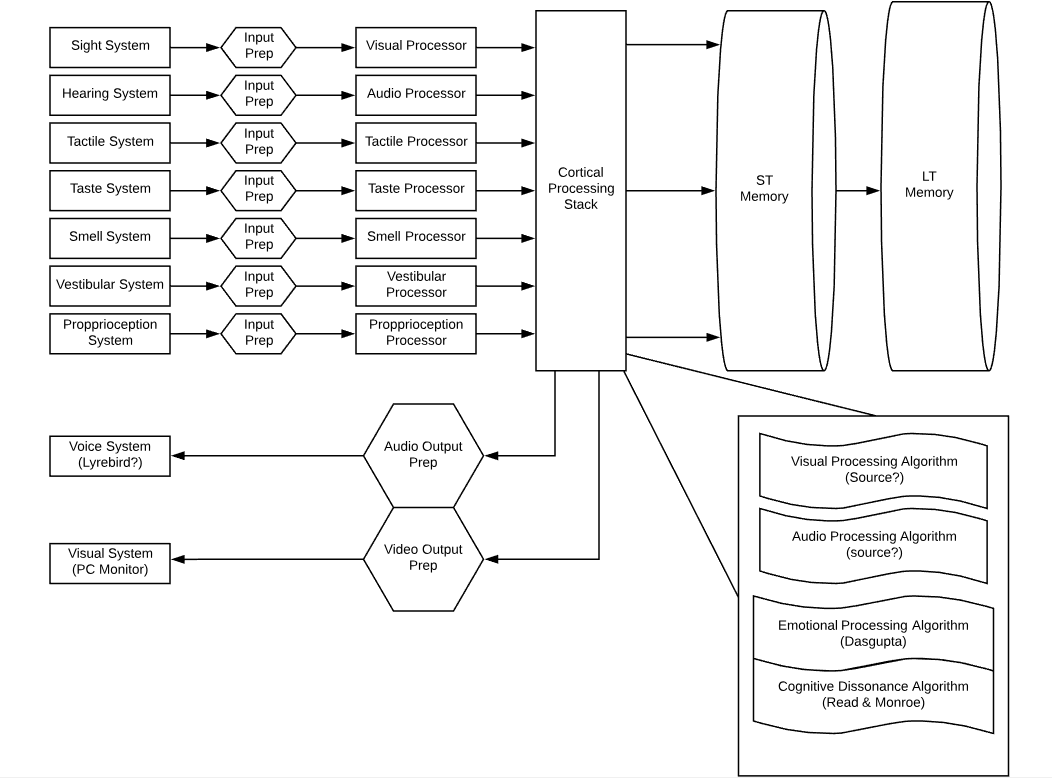
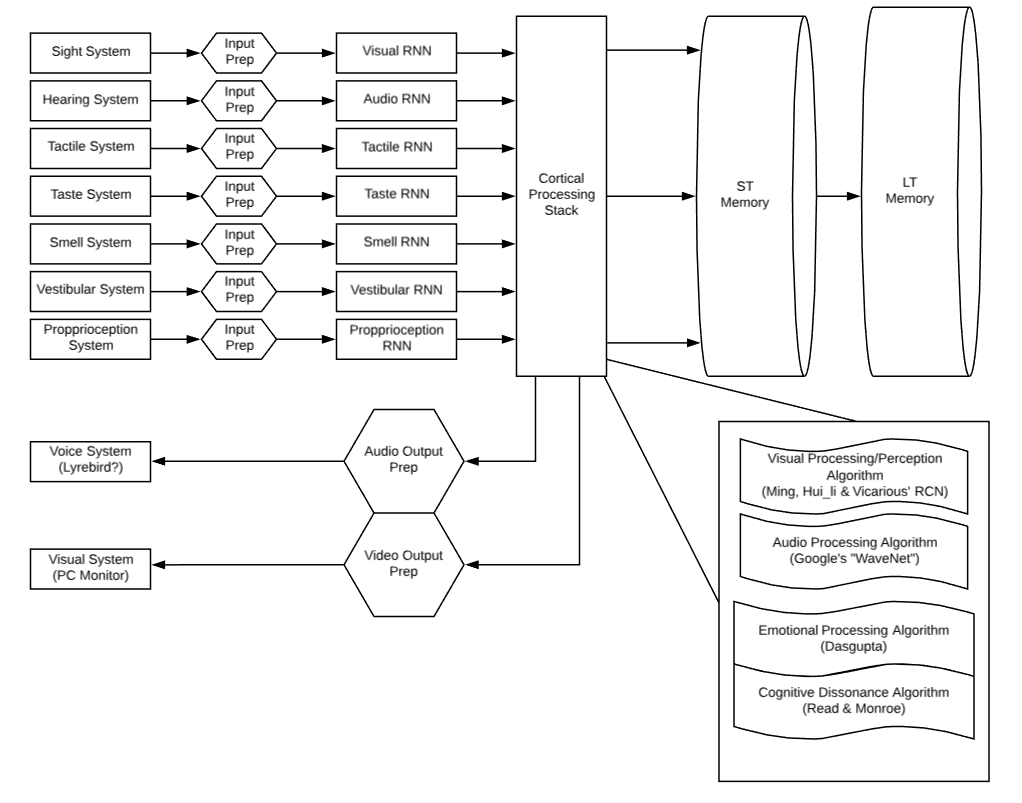
Updated Cusp post and AI Diagram

diff --git a/js/jqBootstrapValidation.min.js b/js/jqBootstrapValidation.min.js
@@ -1,7 +1,6 @@
 /*!
- * Start Bootstrap - Clean Blog v5.0.1 (https://startbootstrap.com/template-overviews/marios-blog)
- * Copyright 2013-2018 Start Bootstrap
- * Licensed under MIT (https://github.com/BlackrockDigital/startbootstrap-marios-blog/blob/master/LICENSE)
+ * Mario's Blog - Clean Blog v5.0.1 (https://startbootstrap.com/template-overviews/marios-blog)
+ * Copyright 2018-2018 Start Bootstrap
  */
 
 !function(m){var u=[],t={options:{prependExistingHelpBlock:!1,sniffHtml:!0,preventSubmit:!0,submitError:!1,submitSuccess:!1,semanticallyStrict:!1,autoAdd:{helpBlocks:!0},filter:function(){return!0}},methods:{init:function(a){var v=m.extend(!0,{},t);v.options=m.extend(!0,v.options,a);var e=m.unique(this.map(function(){return m(this).parents("form")[0]}).toArray());return m(e).bind("submit",function(a){var e=m(this),i=0,t=e.find("input,textarea,select").not("[type=submit],[type=image]").filter(v.options.filter);t.trigger("submit.validation").trigger("validationLostFocus.validation"),t.each(function(a,e){var t=m(e).parents(".form-group").first();t.hasClass("warning")&&(t.removeClass("warning").addClass("error"),i++)}),t.trigger("validationLostFocus.validation"),i?(v.options.preventSubmit&&a.preventDefault(),e.addClass("error"),m.isFunction(v.options.submitError)&&v.options.submitError(e,a,t.jqBootstrapValidation("collectErrors",!0))):(e.removeClass("error"),m.isFunction(v.options.submitSuccess)&&v.options.submitSuccess(e,a))}),this.each(function(){var l=m(this),t=l.parents(".form-group").first(),i=t.find(".help-block").first(),r=l.parents("form").first(),n=[];if(!i.length&&v.options.autoAdd&&v.options.autoAdd.helpBlocks&&(i=m('<div class="help-block" />'),t.find(".controls").append(i),u.push(i[0])),v.options.sniffHtml){var a="";if(void 0!==l.attr("pattern")&&(a="Not in the expected format\x3c!-- data-validation-pattern-message to override --\x3e",l.data("validationPatternMessage")&&(a=l.data("validationPatternMessage")),l.data("validationPatternMessage",a),l.data("validationPatternRegex",l.attr("pattern"))),void 0!==l.attr("max")||void 0!==l.attr("aria-valuemax")){var e=void 0!==l.attr("max")?l.attr("max"):l.attr("aria-valuemax");a="Too high: Maximum of '"+e+"'\x3c!-- data-validation-max-message to override --\x3e",l.data("validationMaxMessage")&&(a=l.data("validationMaxMessage")),l.data("validationMaxMessage",a),l.data("validationMaxMax",e)}if(void 0!==l.attr("min")||void 0!==l.attr("aria-valuemin")){var o=void 0!==l.attr("min")?l.attr("min"):l.attr("aria-valuemin");a="Too low: Minimum of '"+o+"'\x3c!-- data-validation-min-message to override --\x3e",l.data("validationMinMessage")&&(a=l.data("validationMinMessage")),l.data("validationMinMessage",a),l.data("validationMinMin",o)}void 0!==l.attr("maxlength")&&(a="Too long: Maximum of '"+l.attr("maxlength")+"' characters\x3c!-- data-validation-maxlength-message to override --\x3e",l.data("validationMaxlengthMessage")&&(a=l.data("validationMaxlengthMessage")),l.data("validationMaxlengthMessage",a),l.data("validationMaxlengthMaxlength",l.attr("maxlength"))),void 0!==l.attr("minlength")&&(a="Too short: Minimum of '"+l.attr("minlength")+"' characters\x3c!-- data-validation-minlength-message to override --\x3e",l.data("validationMinlengthMessage")&&(a=l.data("validationMinlengthMessage")),l.data("validationMinlengthMessage",a),l.data("validationMinlengthMinlength",l.attr("minlength"))),void 0===l.attr("required")&&void 0===l.attr("aria-required")||(a=v.builtInValidators.required.message,l.data("validationRequiredMessage")&&(a=l.data("validationRequiredMessage")),l.data("validationRequiredMessage",a)),void 0!==l.attr("type")&&"number"===l.attr("type").toLowerCase()&&(a=v.builtInValidators.number.message,l.data("validationNumberMessage")&&(a=l.data("validationNumberMessage")),l.data("validationNumberMessage",a)),void 0!==l.attr("type")&&"email"===l.attr("type").toLowerCase()&&(a="Not a valid email address\x3c!-- data-validator-validemail-message to override --\x3e",l.data("validationValidemailMessage")?a=l.data("validationValidemailMessage"):l.data("validationEmailMessage")&&(a=l.data("validationEmailMessage")),l.data("validationValidemailMessage",a)),void 0!==l.attr("minchecked")&&(a="Not enough options checked; Minimum of '"+l.attr("minchecked")+"' required\x3c!-- data-validation-minchecked-message to override --\x3e",l.data("validationMincheckedMessage")&&(a=l.data("validationMincheckedMessage")),l.data("validationMincheckedMessage",a),l.data("validationMincheckedMinchecked",l.attr("minchecked"))),void 0!==l.attr("maxchecked")&&(a="Too many options checked; Maximum of '"+l.attr("maxchecked")+"' required\x3c!-- data-validation-maxchecked-message to override --\x3e",l.data("validationMaxcheckedMessage")&&(a=l.data("validationMaxcheckedMessage")),l.data("validationMaxcheckedMessage",a),l.data("validationMaxcheckedMaxchecked",l.attr("maxchecked")))}void 0!==l.data("validation")&&(n=l.data("validation").split(",")),m.each(l.data(),function(a,e){var t=a.replace(/([A-Z])/g,",$1").split(",");"validation"===t[0]&&t[1]&&n.push(t[1])});for(var s=n,d=[];m.each(n,function(a,e){n[a]=g(e)}),n=m.unique(n),d=[],m.each(s,function(a,e){if(void 0!==l.data("validation"+e+"Shortcut"))m.each(l.data("validation"+e+"Shortcut").split(","),function(a,e){d.push(e)});else if(v.builtInValidators[e.toLowerCase()]){var t=v.builtInValidators[e.toLowerCase()];"shortcut"===t.type.toLowerCase()&&m.each(t.shortcut.split(","),function(a,e){e=g(e),d.push(e),n.push(e)})}}),0<(s=d).length;);var c={};m.each(n,function(a,t){var i=l.data("validation"+t+"Message"),e=void 0!==i,n=!1;if(i=i||"'"+t+"' validation failed \x3c!-- Add attribute 'data-validation-"+t.toLowerCase()+"-message' to input to change this message --\x3e",m.each(v.validatorTypes,function(a,e){void 0===c[a]&&(c[a]=[]),n||void 0===l.data("validation"+t+g(e.name))||(c[a].push(m.extend(!0,{name:g(e.name),message:i},e.init(l,t))),n=!0)}),!n&&v.builtInValidators[t.toLowerCase()]){var o=m.extend(!0,{},v.builtInValidators[t.toLowerCase()]);e&&(o.message=i);var r=o.type.toLowerCase();"shortcut"===r?n=!0:m.each(v.validatorTypes,function(a,e){void 0===c[a]&&(c[a]=[]),n||r!==a.toLowerCase()||(l.data("validation"+t+g(e.name),o[e.name.toLowerCase()]),c[r].push(m.extend(o,e.init(l,t))),n=!0)})}n||m.error("Cannot find validation info for '"+t+"'")}),i.data("original-contents",i.data("original-contents")?i.data("original-contents"):i.html()),i.data("original-role",i.data("original-role")?i.data("original-role"):i.attr("role")),t.data("original-classes",t.data("original-clases")?t.data("original-classes"):t.attr("class")),l.data("original-aria-invalid",l.data("original-aria-invalid")?l.data("original-aria-invalid"):l.attr("aria-invalid")),l.bind("validation.validation",function(a,e){var i=h(l),n=[];return m.each(c,function(t,a){(i||i.length||e&&e.includeEmpty||v.validatorTypes[t].blockSubmit&&e&&e.submitting)&&m.each(a,function(a,e){v.validatorTypes[t].validate(l,i,e)&&n.push(e.message)})}),n}),l.bind("getValidators.validation",function(){return c}),l.bind("submit.validation",function(){return l.triggerHandler("change.validation",{submitting:!0})}),l.bind(["keyup","focus","blur","click","keydown","keypress","change"].join(".validation ")+".validation",function(a,n){var e=h(l),o=[];t.find("input,textarea,select").each(function(a,e){var t=o.length;if(m.each(m(e).triggerHandler("validation.validation",n),function(a,e){o.push(e)}),o.length>t)m(e).attr("aria-invalid","true");else{var i=l.data("original-aria-invalid");m(e).attr("aria-invalid",void 0!==i&&i)}}),r.find("input,select,textarea").not(l).not('[name="'+l.attr("name")+'"]').trigger("validationLostFocus.validation"),(o=m.unique(o.sort())).length?(t.removeClass("success error").addClass("warning"),v.options.semanticallyStrict&&1===o.length?i.html(o[0]+(v.options.prependExistingHelpBlock?i.data("original-contents"):"")):i.html('<ul role="alert"><li>'+o.join("</li><li>")+"</li></ul>"+(v.options.prependExistingHelpBlock?i.data("original-contents"):""))):(t.removeClass("warning error success"),0<e.length&&t.addClass("success"),i.html(i.data("original-contents"))),"blur"===a.type&&t.removeClass("success")}),l.bind("validationLostFocus.validation",function(){t.removeClass("success")})})},destroy:function(){return this.each(function(){var a=m(this),e=a.parents(".form-group").first(),t=e.find(".help-block").first();a.unbind(".validation"),t.html(t.data("original-contents")),e.attr("class",e.data("original-classes")),a.attr("aria-invalid",a.data("original-aria-invalid")),t.attr("role",a.data("original-role")),-1<u.indexOf(t[0])&&t.remove()})},collectErrors:function(a){var o={};return this.each(function(a,e){var t=m(e),i=t.attr("name"),n=t.triggerHandler("validation.validation",{includeEmpty:!0});o[i]=m.extend(!0,n,o[i])}),m.each(o,function(a,e){0===e.length&&delete o[a]}),o},hasErrors:function(){var t=[];return this.each(function(a,e){t=t.concat(m(e).triggerHandler("getValidators.validation")?m(e).triggerHandler("validation.validation",{submitting:!0}):[])}),0<t.length},override:function(a){t=m.extend(!0,t,a)}},validatorTypes:{callback:{name:"callback",init:function(a,e){return{validatorName:e,callback:a.data("validation"+e+"Callback"),lastValue:a.val(),lastValid:!0,lastFinished:!0}},validate:function(a,e,t){if(t.lastValue===e&&t.lastFinished)return!t.lastValid;if(!0===t.lastFinished){t.lastValue=e,t.lastValid=!0,t.lastFinished=!1;var i=t,n=a;!function(a,e){for(var t=Array.prototype.slice.call(arguments).splice(2),i=a.split("."),n=i.pop(),o=0;o<i.length;o++)e=e[i[o]];e[n].apply(this,t)}(t.callback,window,a,e,function(a){i.lastValue===a.value&&(i.lastValid=a.valid,a.message&&(i.message=a.message),i.lastFinished=!0,n.data("validation"+i.validatorName+"Message",i.message),setTimeout(function(){n.trigger("change.validation")},1))})}return!1}},ajax:{name:"ajax",init:function(a,e){return{validatorName:e,url:a.data("validation"+e+"Ajax"),lastValue:a.val(),lastValid:!0,lastFinished:!0}},validate:function(e,a,t){return""+t.lastValue==""+a&&!0===t.lastFinished?!1===t.lastValid:(!0===t.lastFinished&&(t.lastValue=a,t.lastValid=!0,t.lastFinished=!1,m.ajax({url:t.url,data:"value="+a+"&field="+e.attr("name"),dataType:"json",success:function(a){""+t.lastValue==""+a.value&&(t.lastValid=!!a.valid,a.message&&(t.message=a.message),t.lastFinished=!0,e.data("validation"+t.validatorName+"Message",t.message),setTimeout(function(){e.trigger("change.validation")},1))},failure:function(){t.lastValid=!0,t.message="ajax call failed",t.lastFinished=!0,e.data("validation"+t.validatorName+"Message",t.message),setTimeout(function(){e.trigger("change.validation")},1)}})),!1)}},regex:{name:"regex",init:function(a,e){return{regex:(t=a.data("validation"+e+"Regex"),new RegExp("^"+t+"$"))};var t},validate:function(a,e,t){return!t.regex.test(e)&&!t.negative||t.regex.test(e)&&t.negative}},required:{name:"required",init:function(a,e){return{}},validate:function(a,e,t){return!(0!==e.length||t.negative)||!!(0<e.length&&t.negative)},blockSubmit:!0},match:{name:"match",init:function(a,e){var t=a.parents("form").first().find('[name="'+a.data("validation"+e+"Match")+'"]').first();return t.bind("validation.validation",function(){a.trigger("change.validation",{submitting:!0})}),{element:t}},validate:function(a,e,t){return e!==t.element.val()&&!t.negative||e===t.element.val()&&t.negative},blockSubmit:!0},max:{name:"max",init:function(a,e){return{max:a.data("validation"+e+"Max")}},validate:function(a,e,t){return parseFloat(e,10)>parseFloat(t.max,10)&&!t.negative||parseFloat(e,10)<=parseFloat(t.max,10)&&t.negative}},min:{name:"min",init:function(a,e){return{min:a.data("validation"+e+"Min")}},validate:function(a,e,t){return parseFloat(e)<parseFloat(t.min)&&!t.negative||parseFloat(e)>=parseFloat(t.min)&&t.negative}},maxlength:{name:"maxlength",init:function(a,e){return{maxlength:a.data("validation"+e+"Maxlength")}},validate:function(a,e,t){return e.length>t.maxlength&&!t.negative||e.length<=t.maxlength&&t.negative}},minlength:{name:"minlength",init:function(a,e){return{minlength:a.data("validation"+e+"Minlength")}},validate:function(a,e,t){return e.length<t.minlength&&!t.negative||e.length>=t.minlength&&t.negative}},maxchecked:{name:"maxchecked",init:function(a,e){var t=a.parents("form").first().find('[name="'+a.attr("name")+'"]');return t.bind("click.validation",function(){a.trigger("change.validation",{includeEmpty:!0})}),{maxchecked:a.data("validation"+e+"Maxchecked"),elements:t}},validate:function(a,e,t){return t.elements.filter(":checked").length>t.maxchecked&&!t.negative||t.elements.filter(":checked").length<=t.maxchecked&&t.negative},blockSubmit:!0},minchecked:{name:"minchecked",init:function(a,e){var t=a.parents("form").first().find('[name="'+a.attr("name")+'"]');return t.bind("click.validation",function(){a.trigger("change.validation",{includeEmpty:!0})}),{minchecked:a.data("validation"+e+"Minchecked"),elements:t}},validate:function(a,e,t){return t.elements.filter(":checked").length<t.minchecked&&!t.negative||t.elements.filter(":checked").length>=t.minchecked&&t.negative},blockSubmit:!0}},builtInValidators:{email:{name:"Email",type:"shortcut",shortcut:"validemail"},validemail:{name:"Validemail",type:"regex",regex:"[A-Za-z0-9._%+-]+@[A-Za-z0-9.-]+\\.[A-Za-z]{2,4}",message:"Not a valid email address\x3c!-- data-validator-validemail-message to override --\x3e"},passwordagain:{name:"Passwordagain",type:"match",match:"password",message:"Does not match the given password\x3c!-- data-validator-paswordagain-message to override --\x3e"},positive:{name:"Positive",type:"shortcut",shortcut:"number,positivenumber"},negative:{name:"Negative",type:"shortcut",shortcut:"number,negativenumber"},number:{name:"Number",type:"regex",regex:"([+-]?\\d+(\\.\\d*)?([eE][+-]?[0-9]+)?)?",message:"Must be a number\x3c!-- data-validator-number-message to override --\x3e"},integer:{name:"Integer",type:"regex",regex:"[+-]?\\d+",message:"No decimal places allowed\x3c!-- data-validator-integer-message to override --\x3e"},positivenumber:{name:"Positivenumber",type:"min",min:0,message:"Must be a positive number\x3c!-- data-validator-positivenumber-message to override --\x3e"},negativenumber:{name:"Negativenumber",type:"max",max:0,message:"Must be a negative number\x3c!-- data-validator-negativenumber-message to override --\x3e"},required:{name:"Required",type:"required",message:"This is required\x3c!-- data-validator-required-message to override --\x3e"},checkone:{name:"Checkone",type:"minchecked",minchecked:1,message:"Check at least one option\x3c!-- data-validation-checkone-message to override --\x3e"}}},g=function(a){return a.toLowerCase().replace(/(^|\s)([a-z])/g,function(a,e,t){return e+t.toUpperCase()})},h=function(a){var e=a.val(),t=a.attr("type");return"checkbox"===t&&(e=a.is(":checked")?e:""),"radio"===t&&(e=0<m('input[name="'+a.attr("name")+'"]:checked').length?e:""),e};m.fn.jqBootstrapValidation=function(a){return t.methods[a]?t.methods[a].apply(this,Array.prototype.slice.call(arguments,1)):"object"!=typeof a&&a?(m.error("Method "+a+" does not exist on jQuery.jqBootstrapValidation"),null):t.methods.init.apply(this,arguments)},m.jqBootstrapValidation=function(a){m(":input").not("[type=image],[type=submit]").jqBootstrapValidation.apply(this,arguments)}}(jQuery);

diff --git a/css/marios-blog.min.css b/css/marios-blog.min.css
@@ -1,5 +1,4 @@
 /*!
- * Start Bootstrap - Clean Blog v5.0.1 (https://startbootstrap.com/template-overviews/marios-blog)
- * Copyright 2013-2018 Start Bootstrap
- * Licensed under MIT (https://github.com/BlackrockDigital/startbootstrap-marios-blog/blob/master/LICENSE)
- */body{font-size:20px;color:#212529;font-family:Lora,'Times New Roman',serif}p{line-height:1.5;margin:30px 0}p a{text-decoration:underline}h1,h2,h3,h4,h5,h6{font-weight:800;font-family:'Open Sans','Helvetica Neue',Helvetica,Arial,sans-serif}a{color:#212529;-webkit-transition:all .2s;transition:all .2s}a:focus,a:hover{color:#0085a1}blockquote{font-style:italic;color:#868e96}.section-heading{font-size:36px;font-weight:700;margin-top:60px}.caption{font-size:14px;font-style:italic;display:block;margin:0;padding:10px;text-align:center;border-bottom-right-radius:5px;border-bottom-left-radius:5px}::selection{color:#fff;background:#0085a1;text-shadow:none}img::selection{color:#fff;background:0 0}img::-moz-selection{color:#fff;background:0 0}#mainNav{position:absolute;border-bottom:1px solid #e9ecef;background-color:#fff;font-family:'Open Sans','Helvetica Neue',Helvetica,Arial,sans-serif}#mainNav .navbar-brand{font-weight:800;color:#343a40}#mainNav .navbar-toggler{font-size:12px;font-weight:800;padding:13px;text-transform:uppercase;color:#343a40}#mainNav .navbar-nav>li.nav-item>a{font-size:12px;font-weight:800;letter-spacing:1px;text-transform:uppercase}@media only screen and (min-width:992px){#mainNav{border-bottom:1px solid transparent;background:0 0}#mainNav .navbar-brand{padding:10px 20px;color:#fff}#mainNav .navbar-brand:focus,#mainNav .navbar-brand:hover{color:rgba(255,255,255,.8)}#mainNav .navbar-nav>li.nav-item>a{padding:10px 20px;color:#fff}#mainNav .navbar-nav>li.nav-item>a:focus,#mainNav .navbar-nav>li.nav-item>a:hover{color:rgba(255,255,255,.8)}}@media only screen and (min-width:992px){#mainNav{-webkit-transition:background-color .2s;transition:background-color .2s;-webkit-transform:translate3d(0,0,0);transform:translate3d(0,0,0);-webkit-backface-visibility:hidden}#mainNav.is-fixed{position:fixed;top:-67px;-webkit-transition:-webkit-transform .2s;transition:-webkit-transform .2s;transition:transform .2s;transition:transform .2s,-webkit-transform .2s;border-bottom:1px solid #fff;background-color:rgba(255,255,255,.9)}#mainNav.is-fixed .navbar-brand{color:#212529}#mainNav.is-fixed .navbar-brand:focus,#mainNav.is-fixed .navbar-brand:hover{color:#0085a1}#mainNav.is-fixed .navbar-nav>li.nav-item>a{color:#212529}#mainNav.is-fixed .navbar-nav>li.nav-item>a:focus,#mainNav.is-fixed .navbar-nav>li.nav-item>a:hover{color:#0085a1}#mainNav.is-visible{-webkit-transform:translate3d(0,100%,0);transform:translate3d(0,100%,0)}}header.masthead{margin-bottom:50px;background:no-repeat center center;background-color:#868e96;background-attachment:scroll;position:relative;background-size:cover}header.masthead .overlay{position:absolute;top:0;left:0;height:100%;width:100%;background-color:#212529;opacity:.5}header.masthead .page-heading,header.masthead .post-heading,header.masthead .site-heading{padding:200px 0 150px;color:#fff}@media only screen and (min-width:768px){header.masthead .page-heading,header.masthead .post-heading,header.masthead .site-heading{padding:200px 0}}header.masthead .page-heading,header.masthead .site-heading{text-align:center}header.masthead .page-heading h1,header.masthead .site-heading h1{font-size:50px;margin-top:0}header.masthead .page-heading .subheading,header.masthead .site-heading .subheading{font-size:24px;font-weight:300;line-height:1.1;display:block;margin:10px 0 0;font-family:'Open Sans','Helvetica Neue',Helvetica,Arial,sans-serif}@media only screen and (min-width:768px){header.masthead .page-heading h1,header.masthead .site-heading h1{font-size:80px}}header.masthead .post-heading h1{font-size:35px}header.masthead .post-heading .meta,header.masthead .post-heading .subheading{line-height:1.1;display:block}header.masthead .post-heading .subheading{font-size:24px;font-weight:600;margin:10px 0 30px;font-family:'Open Sans','Helvetica Neue',Helvetica,Arial,sans-serif}header.masthead .post-heading .meta{font-size:20px;font-weight:300;font-style:italic;font-family:Lora,'Times New Roman',serif}header.masthead .post-heading .meta a{color:#fff}@media only screen and (min-width:768px){header.masthead .post-heading h1{font-size:55px}header.masthead .post-heading .subheading{font-size:30px}}.post-preview>a{color:#212529}.post-preview>a:focus,.post-preview>a:hover{text-decoration:none;color:#0085a1}.post-preview>a>.post-title{font-size:30px;margin-top:30px;margin-bottom:10px}.post-preview>a>.post-subtitle{font-weight:300;margin:0 0 10px}.post-preview>.post-meta{font-size:18px;font-style:italic;margin-top:0;color:#868e96}.post-preview>.post-meta>a{text-decoration:none;color:#212529}.post-preview>.post-meta>a:focus,.post-preview>.post-meta>a:hover{text-decoration:underline;color:#0085a1}@media only screen and (min-width:768px){.post-preview>a>.post-title{font-size:36px}}.floating-label-form-group{font-size:14px;position:relative;margin-bottom:0;padding-bottom:.5em;border-bottom:1px solid #dee2e6}.floating-label-form-group input,.floating-label-form-group textarea{font-size:1.5em;position:relative;z-index:1;padding:0;resize:none;border:none;border-radius:0;background:0 0;-webkit-box-shadow:none!important;box-shadow:none!important;font-family:Lora,'Times New Roman',serif}.floating-label-form-group input::-webkit-input-placeholder,.floating-label-form-group textarea::-webkit-input-placeholder{color:#868e96;font-family:Lora,'Times New Roman',serif}.floating-label-form-group label{font-size:.85em;line-height:1.764705882em;position:relative;z-index:0;top:2em;display:block;margin:0;-webkit-transition:top .3s ease,opacity .3s ease;transition:top .3s ease,opacity .3s ease;vertical-align:middle;vertical-align:baseline;opacity:0}.floating-label-form-group .help-block{margin:15px 0}.floating-label-form-group-with-value label{top:0;opacity:1}.floating-label-form-group-with-focus label{color:#0085a1}form .form-group:first-child .floating-label-form-group{border-top:1px solid #dee2e6}footer{padding:50px 0 65px}footer .list-inline{margin:0;padding:0}footer .copyright{font-size:14px;margin-bottom:0;text-align:center}.btn{font-size:14px;font-weight:800;padding:15px 25px;letter-spacing:1px;text-transform:uppercase;border-radius:0;font-family:'Open Sans','Helvetica Neue',Helvetica,Arial,sans-serif}.btn-primary{background-color:#0085a1;border-color:#0085a1}.btn-primary:active,.btn-primary:focus,.btn-primary:hover{color:#fff;background-color:#00657b!important;border-color:#00657b!important}.btn-lg{font-size:16px;padding:25px 35px}
+ * Mario's Blog - Clean Blog v5.0.1 (https://startbootstrap.com/template-overviews/marios-blog)
+ * Copyright 2018-2018 Start Bootstrap
+ */body{font-size:20px;color:#212529;font-family:Lora,'Times New Roman',serif}p{line-height:1.5;margin:30px 0}p a{text-decoration:underline}h1,h2,h3,h4,h5,h6{font-weight:800;font-family:'Open Sans','Helvetica Neue',Helvetica,Arial,sans-serif}a{color:#212529;-webkit-transition:all .2s;transition:all .2s}a:focus,a:hover{color:#0085a1}blockquote{font-style:italic;color:#868e96}.section-heading{font-size:36px;font-weight:700;margin-top:60px}.caption{font-size:14px;font-style:italic;display:block;margin:0;padding:10px;text-align:center;border-bottom-right-radius:5px;border-bottom-left-radius:5px}.quote{font-style:italic;font-size:small}::selection{color:#fff;background:#0085a1;text-shadow:none}img::selection{color:#fff;background:0 0}img::-moz-selection{color:#fff;background:0 0}#mainNav{position:absolute;border-bottom:1px solid #e9ecef;background-color:#fff;font-family:'Open Sans','Helvetica Neue',Helvetica,Arial,sans-serif}#mainNav .navbar-brand{font-weight:800;color:#343a40}#mainNav .navbar-toggler{font-size:12px;font-weight:800;padding:13px;text-transform:uppercase;color:#343a40}#mainNav .navbar-nav>li.nav-item>a{font-size:12px;font-weight:800;letter-spacing:1px;text-transform:uppercase}@media only screen and (min-width:992px){#mainNav{border-bottom:1px solid transparent;background:0 0}#mainNav .navbar-brand{padding:10px 20px;color:#fff}#mainNav .navbar-brand:focus,#mainNav .navbar-brand:hover{color:rgba(255,255,255,.8)}#mainNav .navbar-nav>li.nav-item>a{padding:10px 20px;color:#fff}#mainNav .navbar-nav>li.nav-item>a:focus,#mainNav .navbar-nav>li.nav-item>a:hover{color:rgba(255,255,255,.8)}}@media only screen and (min-width:992px){#mainNav{-webkit-transition:background-color .2s;transition:background-color .2s;-webkit-transform:translate3d(0,0,0);transform:translate3d(0,0,0);-webkit-backface-visibility:hidden}#mainNav.is-fixed{position:fixed;top:-67px;-webkit-transition:-webkit-transform .2s;transition:-webkit-transform .2s;transition:transform .2s;transition:transform .2s,-webkit-transform .2s;border-bottom:1px solid #fff;background-color:rgba(255,255,255,.9)}#mainNav.is-fixed .navbar-brand{color:#212529}#mainNav.is-fixed .navbar-brand:focus,#mainNav.is-fixed .navbar-brand:hover{color:#0085a1}#mainNav.is-fixed .navbar-nav>li.nav-item>a{color:#212529}#mainNav.is-fixed .navbar-nav>li.nav-item>a:focus,#mainNav.is-fixed .navbar-nav>li.nav-item>a:hover{color:#0085a1}#mainNav.is-visible{-webkit-transform:translate3d(0,100%,0);transform:translate3d(0,100%,0)}}header.masthead{margin-bottom:50px;background:no-repeat center center;background-color:#868e96;background-attachment:scroll;position:relative;background-size:cover}header.masthead .overlay{position:absolute;top:0;left:0;height:100%;width:100%;background-color:#212529;opacity:.5}header.masthead .page-heading,header.masthead .post-heading,header.masthead .site-heading{padding:200px 0 150px;color:#fff}@media only screen and (min-width:768px){header.masthead .page-heading,header.masthead .post-heading,header.masthead .site-heading{padding:200px 0}}header.masthead .page-heading,header.masthead .site-heading{text-align:center}header.masthead .page-heading h1,header.masthead .site-heading h1{font-size:50px;margin-top:0}header.masthead .page-heading .subheading,header.masthead .site-heading .subheading{font-size:24px;font-weight:300;line-height:1.1;display:block;margin:10px 0 0;font-family:'Open Sans','Helvetica Neue',Helvetica,Arial,sans-serif}@media only screen and (min-width:768px){header.masthead .page-heading h1,header.masthead .site-heading h1{font-size:80px}}header.masthead .post-heading h1{font-size:35px}header.masthead .post-heading .meta,header.masthead .post-heading .subheading{line-height:1.1;display:block}header.masthead .post-heading .subheading{font-size:24px;font-weight:600;margin:10px 0 30px;font-family:'Open Sans','Helvetica Neue',Helvetica,Arial,sans-serif}header.masthead .post-heading .meta{font-size:20px;font-weight:300;font-style:italic;font-family:Lora,'Times New Roman',serif}header.masthead .post-heading .meta a{color:#fff}@media only screen and (min-width:768px){header.masthead .post-heading h1{font-size:55px}header.masthead .post-heading .subheading{font-size:30px}}.post-preview>a{color:#212529}.post-preview>a:focus,.post-preview>a:hover{text-decoration:none;color:#0085a1}.post-preview>a>.post-title{font-size:30px;margin-top:30px;margin-bottom:10px}.post-preview>a>.post-subtitle{font-weight:300;margin:0 0 10px}.post-preview>.post-meta{font-size:18px;font-style:italic;margin-top:0;color:#868e96}.post-preview>.post-meta>a{text-decoration:none;color:#212529}.post-preview>.post-meta>a:focus,.post-preview>.post-meta>a:hover{text-decoration:underline;color:#0085a1}@media only screen and (min-width:768px){.post-preview>a>.post-title{font-size:36px}}.floating-label-form-group{font-size:14px;position:relative;margin-bottom:0;padding-bottom:.5em;border-bottom:1px solid #dee2e6}.floating-label-form-group input,.floating-label-form-group textarea{font-size:1.5em;position:relative;z-index:1;padding:0;resize:none;border:none;border-radius:0;background:0 0;-webkit-box-shadow:none!important;box-shadow:none!important;font-family:Lora,'Times New Roman',serif}.floating-label-form-group input::-webkit-input-placeholder,.floating-label-form-group textarea::-webkit-input-placeholder{color:#868e96;font-family:Lora,'Times New Roman',serif}.floating-label-form-group label{font-size:.85em;line-height:1.764705882em;position:relative;z-index:0;top:2em;display:block;margin:0;-webkit-transition:top .3s ease,opacity .3s ease;transition:top .3s ease,opacity .3s ease;vertical-align:middle;vertical-align:baseline;opacity:0}.floating-label-form-group .help-block{margin:15px 0}.floating-label-form-group-with-value label{top:0;opacity:1}.floating-label-form-group-with-focus label{color:#0085a1}form .form-group:first-child .floating-label-form-group{border-top:1px solid #dee2e6}footer{padding:50px 0 65px}footer .list-inline{margin:0;padding:0}footer .copyright{font-size:14px;margin-bottom:0;text-align:center}.btn{font-size:14px;font-weight:800;padding:15px 25px;letter-spacing:1px;text-transform:uppercase;border-radius:0;font-family:'Open Sans','Helvetica Neue',Helvetica,Arial,sans-serif}.btn-primary{background-color:#0085a1;border-color:#0085a1}.btn-primary:active,.btn-primary:focus,.btn-primary:hover{color:#fff;background-color:#00657b!important;border-color:#00657b!important}.btn-lg{font-size:16px;padding:25px 35px}

diff --git a/post.html b/post.html
@@ -8,7 +8,7 @@
         name="description">
   <meta content=""
         name="author">
-  <title>Clean Blog - Start Bootstrap Theme</title><!-- Bootstrap core CSS -->
+  <title>Mario's Blog - On the cusp...</title><!-- Bootstrap core CSS -->
   <link href="vendor/bootstrap/css/bootstrap.min.css"
         rel="stylesheet"><!-- Custom fonts for this template -->
   <link href="vendor/fontawesome-free/css/all.min.css"
@@ -77,12 +77,14 @@
     <div class="container">
       <div class="row">
         <div class="col-lg-8 col-md-10 mx-auto">
-          <p>I'd like to start with a few quotes. A few I am fond of...</p>
-          <p>“The question is not whether intelligent machines can have any emotions, but whether machines can be intelligent without any emotions”. - Marvin Minsky</p>
-          <p>"Any neural process can be reproduced digitally in a computer." - Ray Kurzweil : How to Create a Mind</p>
-          <p>"Brains aren’t like machines; machines are like brains with something missing." - Professor Michael Gazzaniga</p>
-          <p>As a Software Engineering Consultant, self admitted tech addict and an armchair AI enthusiast, I believe that we have in fact reproduced the functionality of the human brain on a minor level. There are various project in flight that are
-          reproducing many of the varying functions of the human brain.&nbsp; That's not really the question though is it.&nbsp; We want a sentient mind! However, the mind is this other vastly elusive thing...or is it?</p>
+          <p>I'd like to start with a few quotes that I am fond of...</p>
+          <p class="quote">“The question is not whether intelligent machines can have any emotions, but whether machines can be intelligent without any emotions”. - Marvin Minsky</p>
+          <p class="quote">"Any neural process can be reproduced digitally in a computer." - Ray Kurzweil : How to Create a Mind</p>
+          <p class="quote">"Brains aren’t like machines; machines are like brains with something missing." - Professor Michael Gazzaniga</p>
+          <h3>Out on a Limb</h3>
+          <p>As a Software Engineering Consultant, self admitted tech addict and armchair A.I. enthusiast, I have been actively following the various fields that contribute to the overall understanding of Artificial Intelligence. Recurring,
+          Convolutional Neural Networks. Deep Learning, NLP. I believe that we have in fact reproduced the functionality of the human brain. Even if it's viewed by some as simplisticly and on a minor level. There are various projects in flight that
+          reproduce the varying functions and processes of the human brain.&nbsp; That's not really the question though is it?&nbsp; We want a sentient mind! However, the mind is this other, vastly elusive, thing...or is it?</p>
           <p>We know that the average human's ability to think using their "mind" is based on their use of the varying systems that make up the human body. As the late Marvin Minsky pointed out in an interview with Ray Kurtzweil, several times over
           the recent past, a few individuals took complex thoughts and ideas in fields like physics and biology and boiled them down to some very simple explanations. Is the field of AI may very well be on the cusp of that type of iteration.</p>
           <p>If the mind is made up of a group of systems that include seeing, hearing, smelling, tasting, and feeling.&nbsp; Simply put, these systems provide input for the brain to make decisions.&nbsp; These decisions result in outputs that
@@ -90,11 +92,27 @@
           <p>Let's use a music video as an example of an occurrence during a specific moment in time.&nbsp;&nbsp;Our visual cortex takes in visual representations of the video during the moment the eyes are viewing the video.&nbsp; Our ears take in
           the sound that is present in that moment.&nbsp; It may be loud enough for our body to feel the sound as well.</p>
           <p>What is physically viewed is interpreted by a system, which includes eyes, a visual cortex and subsequent connections to the brain.&nbsp; What is heard is interpreted by a system that includes our outer and inner ear and subsequent
-          connections to the brain.&nbsp; Both of those systems work together to provide the response to the received input. response could be presented in the form of facial expressions, body motion and actions.</p>
-          <p>Now, let's break this process down further and visually represent the various pieces and parts of these systems.</p>
+          connections to the brain.&nbsp; Both of those systems work together to provide the response to the received input. response could be presented in the form of facial expressions, body motion and actions. These outputs may include a verbal
+          response that might include, "Wow, I like this song".</p>
+          <p>Now, is it possible to deduce from the research done to date that if a machine were given the ability to see the video, hear the video and potentially "feel" the video. Then, through the various algorithms of today, interpret that
+          input, by comparing it to the responses of those around it.</p>
+          <h3>Newborn Theory</h3>
+          <p>For example, if I am listening to/watching a song/video, and my four year old is listening to it, he's looking to me to determine if it's a good song or not. He's never heard anything like it before, so he doesn't understand "how" to
+          respond. He then sees me produce a positive response to the video, and he "begins" to enjoy the song. This feeling is immediately saved in his short-term and long-term memory. In a future moment, when the song comes on again, he remembers
+          it and also remembers that he likes this song.</p>
+          <p>Humans learn everything from those around us. Starting at an early age, I have watched my daughter and sons develop their likes and dislikes based on what my wife and I determine to be bad or good. They decided they liked or disliked
+          things based on whether my wife and I were happy or sad, smiling, frowning, scrunching our nose up, or showing many of the varying human responses to these moments in time. Is it plausible to think that a machine, if viewed as a new born
+          from the moment it’s turned on, and treated as such, could "grow" in similar ways? Could they not learn how to respond, determine what to like, what not to like, by the interactions with their surroundings and those close to them? Then in
+          the future, the system has now developed enough “knowledge” to start determining it’s own likes and dislikes and by proxy, their emotions, which end up being the summation of the life they lived and learned from.</p>
+          <p>Lets not forget, that song we both liked when my son was 4, may be disliked now. Because over time, he’s fallen in with a crowd that likes different music, and he decides, I don't like that song any more. Is it not that simple?</p>
+          <h3>How?</h3>
+          <p>I am not 100% sure about this yet and I am still working on it. But for starters, let's break this process down further and visually represent the various pieces and parts of these systems.</p>
           <p>Here's a basic model of what an AI might look like:</p><img src="img/AI_Model.png">
+          <p>I think this design could give an AI the tools and systems needed to gather input. A place to store that input to be used for future decision making. The input is taken in through the various devices that simulate eyes and ears,
+          etc.</p>
           <p>This is, of course, a work in progress that I am exploring.&nbsp; I am vastly inexperienced in some of these fields of study, but maybe it's a fresh, more simplistic look at things that helps.&nbsp; Taking a step back and looking at the
-          big picture. Keep it simple… :-)</p>
+          big picture.</p>
+          <p>Keepin' it simple… :-)</p>
         </div>
       </div>
     </div>

diff --git a/js/contact_me.min.js b/js/contact_me.min.js
@@ -1,7 +1,6 @@
 /*!
- * Start Bootstrap - Clean Blog v5.0.1 (https://startbootstrap.com/template-overviews/marios-blog)
- * Copyright 2013-2018 Start Bootstrap
- * Licensed under MIT (https://github.com/BlackrockDigital/startbootstrap-marios-blog/blob/master/LICENSE)
+ * Mario's Blog - Clean Blog v5.0.1 (https://startbootstrap.com/template-overviews/marios-blog)
+ * Copyright 2018-2018 Start Bootstrap
  */
 
 $(function(){$("#contactForm input,#contactForm textarea").jqBootstrapValidation({preventSubmit:!0,submitError:function(t,e,s){},submitSuccess:function(t,e){e.preventDefault();var s=$("input#name").val(),a=$("input#email").val(),n=$("input#phone").val(),c=$("textarea#message").val(),i=s;0<=i.indexOf(" ")&&(i=s.split(" ").slice(0,-1).join(" ")),$this=$("#sendMessageButton"),$this.prop("disabled",!0),$.ajax({url:"././mail/contact_me.php",type:"POST",data:{name:s,phone:n,email:a,message:c},cache:!1,success:function(){$("#success").html("<div class='alert alert-success'>"),$("#success > .alert-success").html("<button type='button' class='close' data-dismiss='alert' aria-hidden='true'>&times;").append("</button>"),$("#success > .alert-success").append("<strong>Your message has been sent. </strong>"),$("#success > .alert-success").append("</div>"),$("#contactForm").trigger("reset")},error:function(){$("#success").html("<div class='alert alert-danger'>"),$("#success > .alert-danger").html("<button type='button' class='close' data-dismiss='alert' aria-hidden='true'>&times;").append("</button>"),$("#success > .alert-danger").append($("<strong>").text("Sorry "+i+", it seems that my mail server is not responding. Please try again later!")),$("#success > .alert-danger").append("</div>"),$("#contactForm").trigger("reset")},complete:function(){setTimeout(function(){$this.prop("disabled",!1)},1e3)}})},filter:function(){return $(this).is(":visible")}}),$('a[data-toggle="tab"]').click(function(t){t.preventDefault(),$(this).tab("show")})}),$("#name").focus(function(){$("#success").html("")});

diff --git a/js/mario-blog.min.js b/js/mario-blog.min.js
@@ -1,7 +1,6 @@
 /*!
- * Start Bootstrap - Clean Blog v5.0.1 (https://startbootstrap.com/template-overviews/marios-blog)
- * Copyright 2013-2018 Start Bootstrap
- * Licensed under MIT (https://github.com/BlackrockDigital/startbootstrap-marios-blog/blob/master/LICENSE)
+ * Mario's Blog - Clean Blog v5.0.1 (https://startbootstrap.com/template-overviews/marios-blog)
+ * Copyright 2018-2018 Start Bootstrap
  */
 
 !function(o){"use strict";o("body").on("input propertychange",".floating-label-form-group",function(i){o(this).toggleClass("floating-label-form-group-with-value",!!o(i.target).val())}).on("focus",".floating-label-form-group",function(){o(this).addClass("floating-label-form-group-with-focus")}).on("blur",".floating-label-form-group",function(){o(this).removeClass("floating-label-form-group-with-focus")});if(992<o(window).width()){var s=o("#mainNav").height();o(window).on("scroll",{previousTop:0},function(){var i=o(window).scrollTop();i<this.previousTop?0<i&&o("#mainNav").hasClass("is-fixed")?o("#mainNav").addClass("is-visible"):o("#mainNav").removeClass("is-visible is-fixed"):i>this.previousTop&&(o("#mainNav").removeClass("is-visible"),s<i&&!o("#mainNav").hasClass("is-fixed")&&o("#mainNav").addClass("is-fixed")),this.previousTop=i})}}(jQuery);

diff --git a/css/marios-blog.css b/css/marios-blog.css
@@ -1,7 +1,6 @@
 /*!
- * Start Bootstrap - Clean Blog v5.0.1 (https://startbootstrap.com/template-overviews/marios-blog)
- * Copyright 2013-2018 Start Bootstrap
- * Licensed under MIT (https://github.com/BlackrockDigital/startbootstrap-marios-blog/blob/master/LICENSE)
+ * Mario's Blog - Clean Blog v5.0.1 (https://startbootstrap.com/template-overviews/marios-blog)
+ * Copyright 2018-2018 Start Bootstrap
  */
 
 body {
@@ -59,6 +58,11 @@ blockquote {
   text-align: center;
   border-bottom-right-radius: 5px;
   border-bottom-left-radius: 5px;
+}
+
+.quote {
+  font-style: italic;
+  font-size: small;
 }
 
 ::selection {

diff --git a/gulpfile.js b/gulpfile.js
@@ -10,9 +10,8 @@ var browserSync = require('browser-sync').create();
 
 // Set the banner content
 var banner = ['/*!\n',
-  ' * Start Bootstrap - <%= pkg.title %> v<%= pkg.version %> (<%= pkg.homepage %>)\n',
-  ' * Copyright 2013-' + (new Date()).getFullYear(), ' <%= pkg.author %>\n',
-  ' * Licensed under <%= pkg.license %> (https://github.com/BlackrockDigital/<%= pkg.name %>/blob/master/LICENSE)\n',
+  ' * Mario\'s Blog - <%= pkg.title %> v<%= pkg.version %> (<%= pkg.homepage %>)\n',
+  ' * Copyright 2018-' + (new Date()).getFullYear(), ' <%= pkg.author %>\n',
   ' */\n',
   '\n'
 ].join('');

diff --git a/scss/_global.scss b/scss/_global.scss
@@ -53,6 +53,10 @@ blockquote {
   border-bottom-right-radius: 5px;
   border-bottom-left-radius: 5px;
 }
+.quote{
+  font-style: italic;
+  font-size: small;
+}
 
 ::-moz-selection {
   color: $white;
